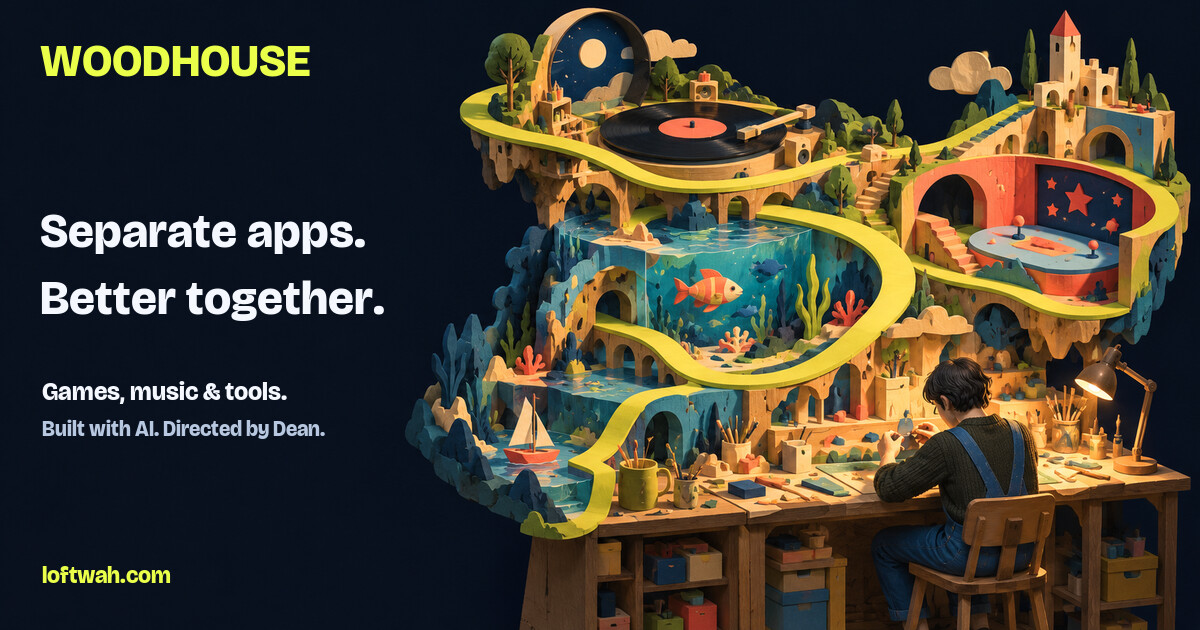
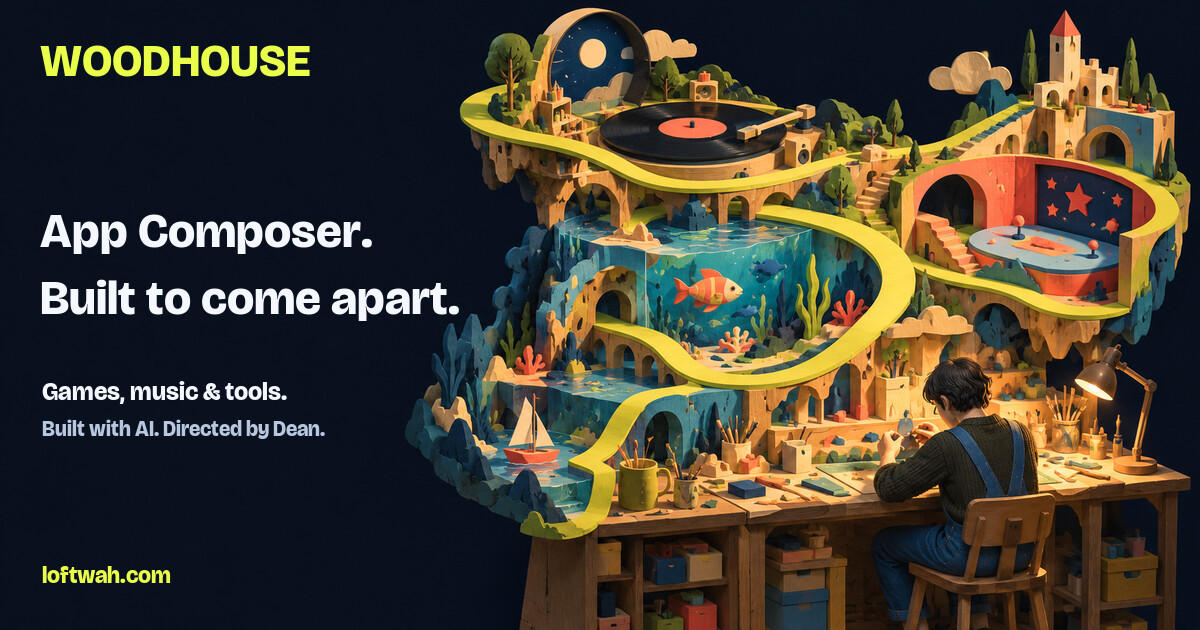
Develop the App Composer case study and portfolio writing standard

Changed region(s): [[0.0617, 0.4524, 0.4008, 0.5127], [0.0308, 0.3317, 0.3083, 0.4222]]

diff --git a/scripts/render-social-cards.py b/scripts/render-social-cards.py
@@ -21,7 +21,7 @@ WORKSHOP_CARDS = {
     "woodhouse": ("One human.", "Many worlds."),
     "factory": ("Made here.", "Used together."),
     "dispatches/your-game-its-own-soundtrack": ("Your game.", "Its soundtrack."),
-    "dispatches/your-apps-should-get-along": ("Separate apps.", "Better together."),
+    "dispatches/your-apps-should-get-along": ("App Composer.", "Built to come apart."),
 }
 CARDS = {
     "dispatches/take-a-useful-piece": ("", "", "", "18 October 2026"),

diff --git a/UNSLOP.md b/UNSLOP.md
@@ -18,3 +18,43 @@ This is how the factory works. A generic generated-looking website fails the pro
 - Do not explain internal fallback, retry, cache or recovery behavior in copy written for readers. State the useful source, status or limitation from the reader's point of view.
 
 The product is not optimised to look like a portfolio. It is designed to be Woodhouse.
+
+## Writing that earns a reader's time
+
+Reviewed 18 October 2026. The observed failure is treating a technically accurate release summary
+as a compelling project story. An article needs an argument, a useful example and editorial judgement.
+
+- Start with the thing a reader can understand or inspect. Choose an angle specific to this project;
+  swapping the product name should break the article.
+- Make a claim with consequences. Explain the mechanism and the cost of the choice. Keep opinion
+  recognisable as opinion, and put a material limitation beside the claim it limits.
+- Remove empty significance, unnamed experts, invented experience and unsupported comparisons.
+  Avoid synonym cycling, compulsory threes, repeated "not X, but Y" constructions, canned rhetorical
+  questions and paragraphs that announce what the article will explain.
+- Read for manufactured swagger too: profanity, sentence fragments and a slogan every few lines
+  can be as empty as corporate enthusiasm. Let sentence length follow the thought. Keep a strong
+  judgement when the evidence supports it.
+- Edit the argument before polishing the words. Read the draft aloud, check its factual claims
+  against current sources, then cut the passages that repeat the point. No word blacklist or
+  detector score can establish authorship or substitute for an edit.
+- Finish with an action the reader can actually take. Preserve the project's current availability;
+  a prototype can earn a good article without becoming a launch or a customer success story.
+
+The research informs these choices; it does not supply a universal template. These are close-reading
+judgements about why the articles work, not measured explanations of their reach:
+
+- [Paul Graham's Maker's Schedule, Manager's Schedule](https://paulgraham.com/makersschedule.html)
+  gives a familiar frustration a useful name, then explains the cost of an interruption through a
+  concrete working day. Borrow the explanatory precision, not the author's personal experience.
+- [Joel Spolsky's Things You Should Never Do, Part I](https://www.joelonsoftware.com/2000/04/06/things-you-should-never-do-part-i/)
+  makes a forceful argument through a named failure and shows how apparently messy code preserves
+  hard-won knowledge. Borrow the causal detail; challenge the absolute claim where the evidence differs.
+- [Dan Luu's In defense of simple architectures](https://danluu.com/simple-architectures/)
+  earns its position with operational choices, admitted mistakes and exceptions. Give a technical
+  reader enough detail to disagree intelligently.
+
+[Measuring AI "Slop" in Text](https://arxiv.org/abs/2509.19163) treats quality through interpretable
+dimensions and reports subjectivity in binary judgements. [Wikipedia's editing observations](https://en.wikipedia.org/wiki/Wikipedia:Signs_of_AI_writing)
+are useful warning patterns for revision. Neither makes a punctuation mark proof of AI authorship.
+Our editorial concern is writing that wastes attention through generic claims, repetition or missing
+substance. AI assistance does not excuse that failure, and disguising assistance does not fix it.

diff --git a/PRODUCT.md b/PRODUCT.md
@@ -30,6 +30,13 @@ update must not redefine what the whole product is. Keep Dean's actual voice; do
 personal memories, testimonials or a new persona. Report to MP by leading with the decision and
 result, then the evidence that matters, the remaining uncertainty and the next action.
 
+Reviewed 18 October 2026: develop a dedicated article for every project, starting with App Composer
+and building the series individually. Each article needs a particular reader, a defensible argument
+and a concrete example worth their attention. Explain the product's value and its consequential
+tradeoffs; confidence comes from the work shown. Use the existing EmDash dispatches and project
+links, retaining historical records and dates. Follow the writing guidance in UNSLOP.md and the
+existing discovery programme in #18; a coverage target does not justify thin or repetitive articles.
+
 ## Promise
 
 Claims have a source and a review date. Implementation, qualification, production verification and physical proof remain distinct states. A project can be strong in one dimension and unfinished in another.
